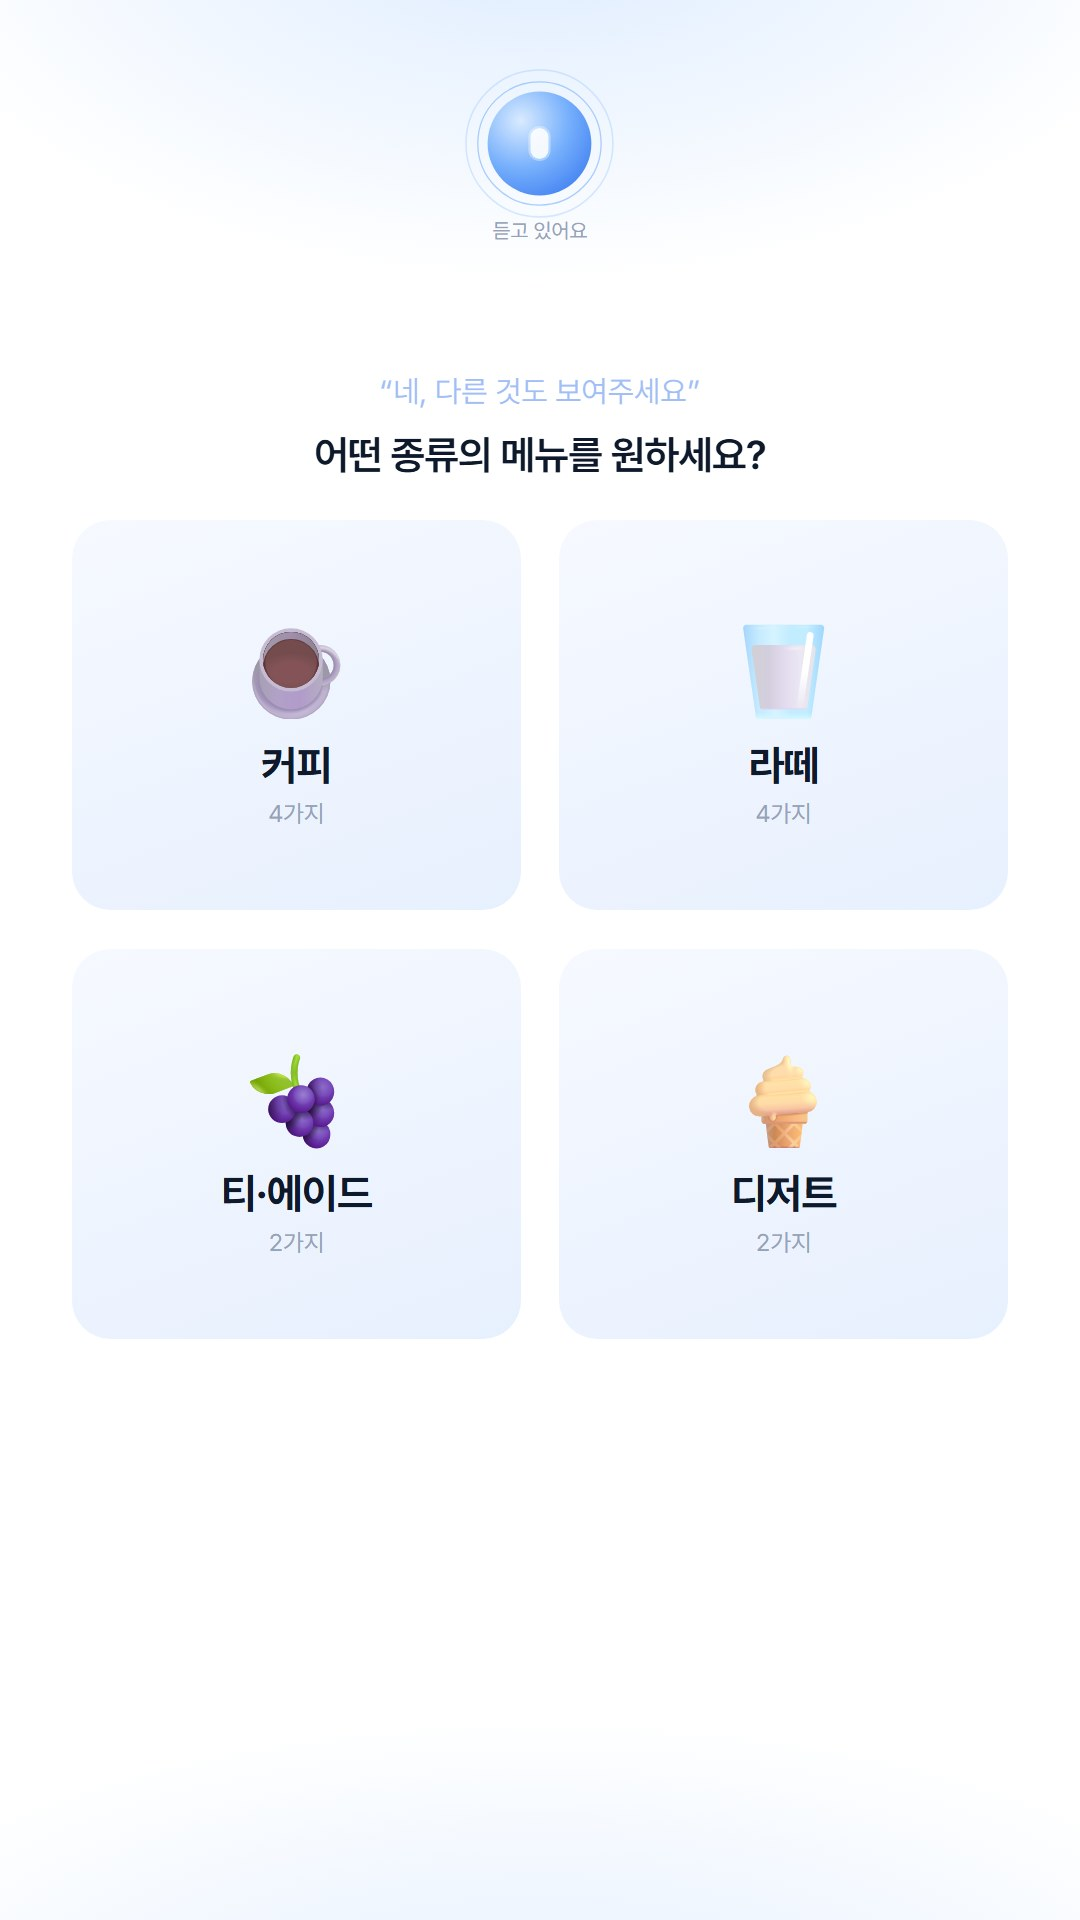
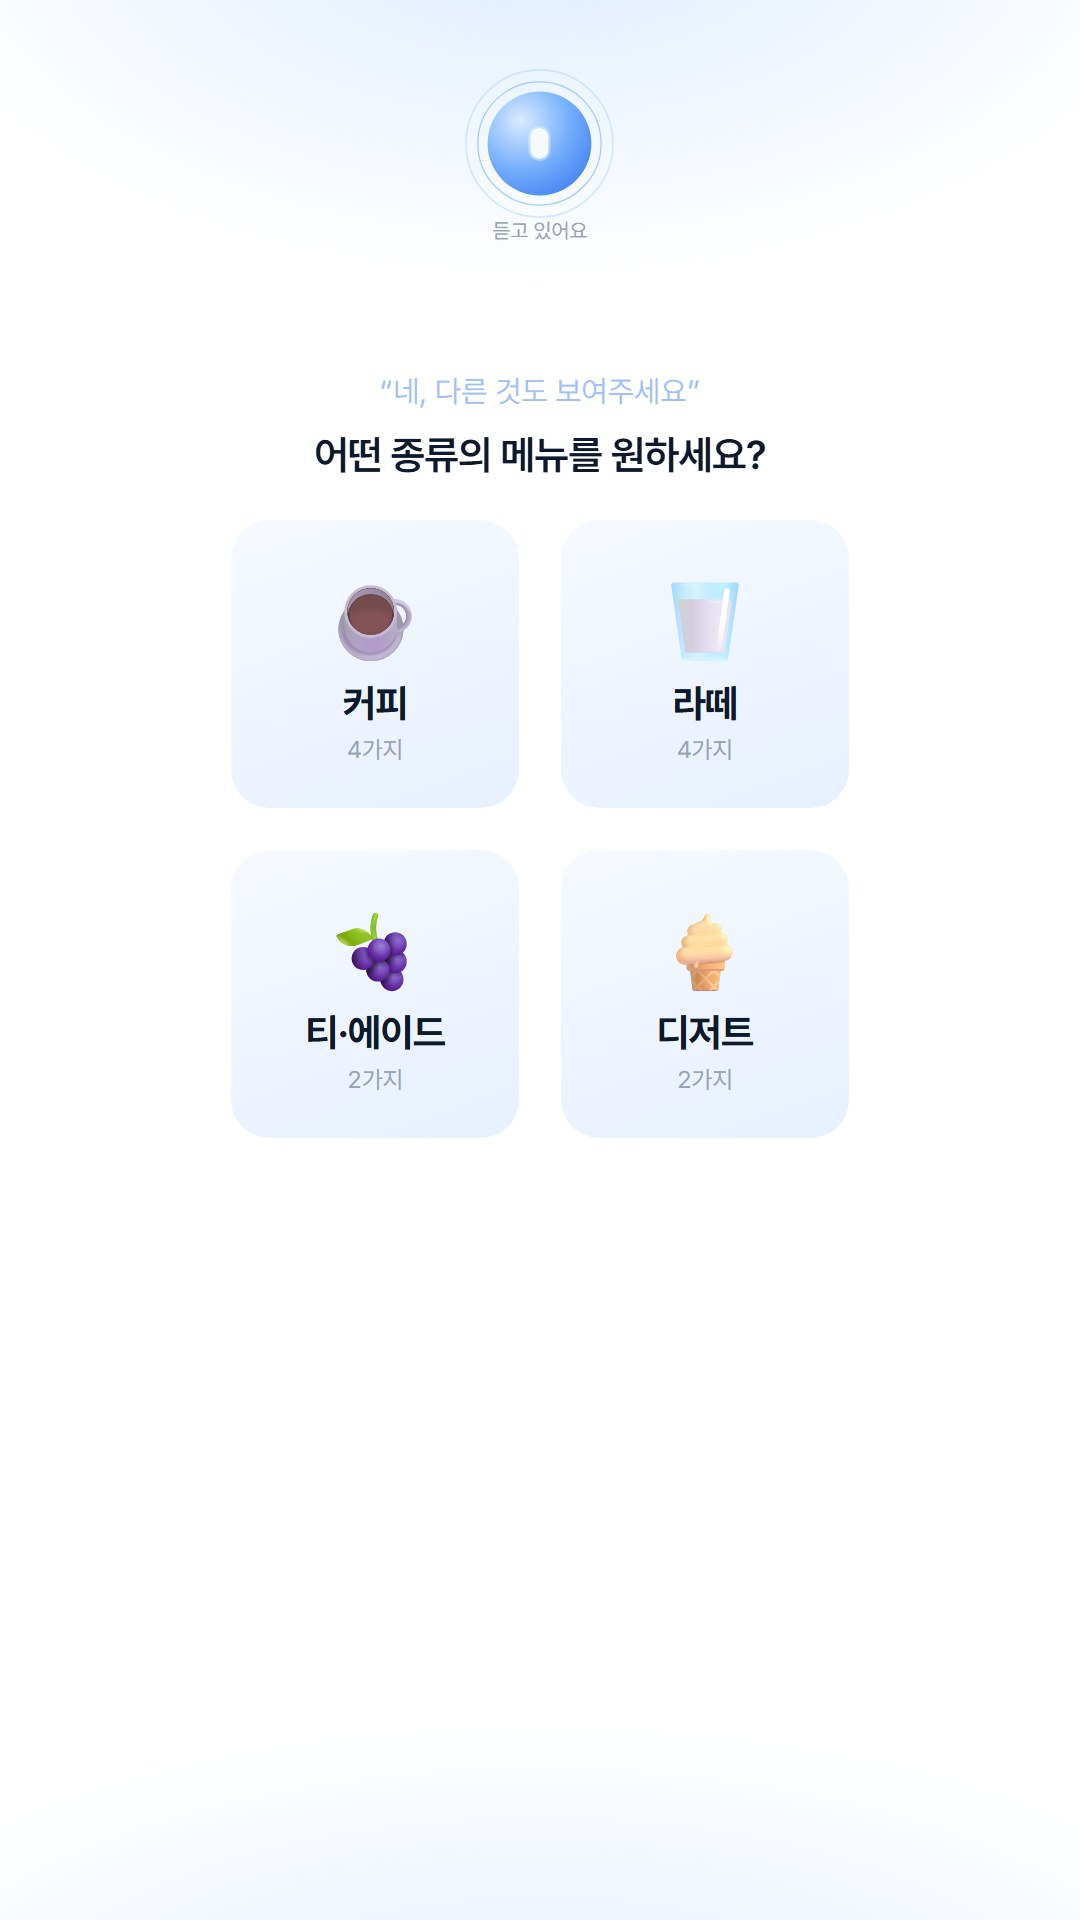
Go back to cards, at one modest size, for menus and kinds of menu

diff --git a/frontend/src/lib/components/MenuGrid.svelte b/frontend/src/lib/components/MenuGrid.svelte
@@ -1,9 +1,8 @@
 <script lang="ts">
-  // The items the assistant chose, as a clean list with large pictures (customers choose by
-  // the picture). When it shows other items, rows that stay move to their new places and the
-  // others fade: the page never "changes".
+  // The items the assistant chose. When it shows other items, the cards that stay move to their
+  // new places and the others fade: the page never "changes".
   import { flip } from 'svelte/animate';
-  import { fade } from 'svelte/transition';
+  import { fade, scale } from 'svelte/transition';
   import { cubicOut } from 'svelte/easing';
   import { won } from '../format';
   import { itemById } from '../menu';
@@ -16,40 +15,43 @@
   const items = $derived(
     view.item_ids.map((id) => itemById(ui.menu, id)).filter((i): i is MenuItem => !!i),
   );
-  // More than five rows only fit when they are a little smaller.
-  const compact = $derived(items.length > 5);
+  // Cards keep one modest size; four items make a centered 2x2 block.
+  const columns = $derived(items.length <= 4 ? 2 : items.length <= 6 ? 3 : 4);
 </script>
 
-<div class="menu" class:compact>
+<div class="menu" style:--columns={columns}>
   {#key view.title}
     <p class="caption" in:fade={{ duration: 400, delay: 200 }}>{view.title}</p>
   {/key}
   {#if items.length === 0}
     <p class="empty" in:fade>해당하는 메뉴가 없어요</p>
   {/if}
-  <ul>
+  <div class="grid">
     {#each items as item, i (item.id)}
-      <li
+      <article
+        class="card"
         animate:flip={{ duration: 550, easing: cubicOut }}
-        in:fade|global={{ duration: 450, delay: 120 + i * 70, easing: cubicOut }}
+        in:scale|global={{
+          start: 0.94,
+          opacity: 0,
+          duration: 450,
+          delay: 120 + i * 60,
+          easing: cubicOut,
+        }}
         out:fade={{ duration: 200 }}
       >
         <div
-          class="picture"
           data-fly-source={item.id}
           in:receive|global={{ key: item.id }}
           out:send|global={{ key: item.id }}
         >
           <ItemImage {item} />
         </div>
-        <div class="what">
-          <span class="name">{item.name}</span>
-          <span class="description">{item.description}</span>
-        </div>
+        <span class="name">{item.name}</span>
         <span class="price">{won(item.price)}</span>
-      </li>
+      </article>
     {/each}
-  </ul>
+  </div>
 </div>
 
 <style>
@@ -57,8 +59,7 @@
     height: 100%;
     display: flex;
     flex-direction: column;
-    gap: 1rem;
-    padding: 0 1rem;
+    gap: 1.6rem;
   }
   .caption {
     min-height: 2.2rem;
@@ -72,49 +73,29 @@
     color: var(--muted);
     text-align: center;
   }
-  ul {
-    list-style: none;
-    margin: 0;
-    padding: 0;
-  }
-  li {
+  .grid {
     display: grid;
-    grid-template-columns: 10.5rem 1fr auto;
-    align-items: center;
-    gap: 2.2rem;
-    padding: 1.4rem 0;
-    border-bottom: 1px solid var(--line);
+    grid-template-columns: repeat(var(--columns), minmax(0, 18rem));
+    justify-content: center;
+    gap: 3rem 2.6rem;
+    align-content: start;
   }
-  li:last-child {
-    border-bottom: none;
-  }
-  .compact li {
-    grid-template-columns: 7.5rem 1fr auto;
-    padding: 1rem 0;
-  }
-  .what {
+  .card {
     display: flex;
     flex-direction: column;
     gap: 0.4rem;
-    min-width: 0;
+  }
+  .card > div {
+    margin-bottom: 0.8rem;
   }
   .name {
-    font-size: 2.5rem;
+    font-size: 2.1rem;
     font-weight: 700;
     letter-spacing: -0.02em;
-  }
-  .description {
-    font-size: 1.6rem;
-    color: var(--muted);
-    white-space: nowrap;
-    overflow: hidden;
-    text-overflow: ellipsis;
+    word-break: keep-all;
   }
   .price {
-    font-size: 2.3rem;
-    font-weight: 600;
-  }
-  .compact .name {
-    font-size: 2.1rem;
+    font-size: 1.7rem;
+    color: var(--text-2);
   }
 </style>

diff --git a/frontend/src/lib/components/Categories.svelte b/frontend/src/lib/components/Categories.svelte
@@ -35,12 +35,13 @@
 <style>
   .categories {
     display: grid;
-    grid-template-columns: 1fr 1fr;
-    gap: 2.4rem;
+    grid-template-columns: repeat(2, 18rem);
+    justify-content: center;
+    gap: 2.6rem;
     align-content: start;
   }
   .kind {
-    aspect-ratio: 1.15;
+    aspect-ratio: 1;
     border-radius: var(--radius-l);
     background: linear-gradient(160deg, #f6f9ff, var(--tint-2));
     display: flex;
@@ -50,10 +51,10 @@
     gap: 0.6rem;
   }
   .emoji {
-    font-size: 6rem;
+    font-size: 5rem;
   }
   .name {
-    font-size: 2.6rem;
+    font-size: 2.4rem;
     font-weight: 700;
     letter-spacing: -0.02em;
   }

diff --git a/frontend/src/lib/components/ItemImage.svelte b/frontend/src/lib/components/ItemImage.svelte
@@ -37,7 +37,7 @@
     object-fit: cover;
   }
   .emoji {
-    font-size: 6.5rem;
+    font-size: 5.5rem;
   }
   .l .emoji {
     font-size: 13rem;

diff --git a/docs/architecture.md b/docs/architecture.md
@@ -178,11 +178,11 @@ order at the bottom, and in between what the assistant chose appears and disappe
 - **Conversation**: under the orb, what the customer said (blue, in quotes) and what the
   assistant says; older words fade out at the top.
 - **Menus**: the items the assistant chose (3–5 recommendations, a category, or a filtered set),
-  no heading except a small caption for a filter or a category. A clean list: a large picture
-  (customers choose by it), the name with a short description, the price. When the assistant shows
-  other items, the rows that stay move to their new places and the others fade (`flip`).
-- **Kinds of menu** (`show_categories`): four tiles, for "다른 메뉴도 보여 주세요".
-- **Item**: the row's picture grows into a large image (`crossfade`); name, price, description,
+  no heading except a small caption for a filter or a category. Modest cards of one size
+  (picture, name, price), centered; they never fill the whole screen. When the assistant shows
+  other items, the cards that stay move to their new places and the others fade (`flip`).
+- **Kinds of menu** (`show_categories`): four tiles of the same size, for "다른 메뉴도 보여 주세요".
+- **Item**: the card's picture grows into a large image (`crossfade`); name, price, description,
   ingredients and facts; only the required choices, which fill in blue when chosen. An added item
   flies into the order bar and the total counts up.
 - **Order bar**: a quiet bar at the bottom while ordering (thumbnails, count, total). The review,
